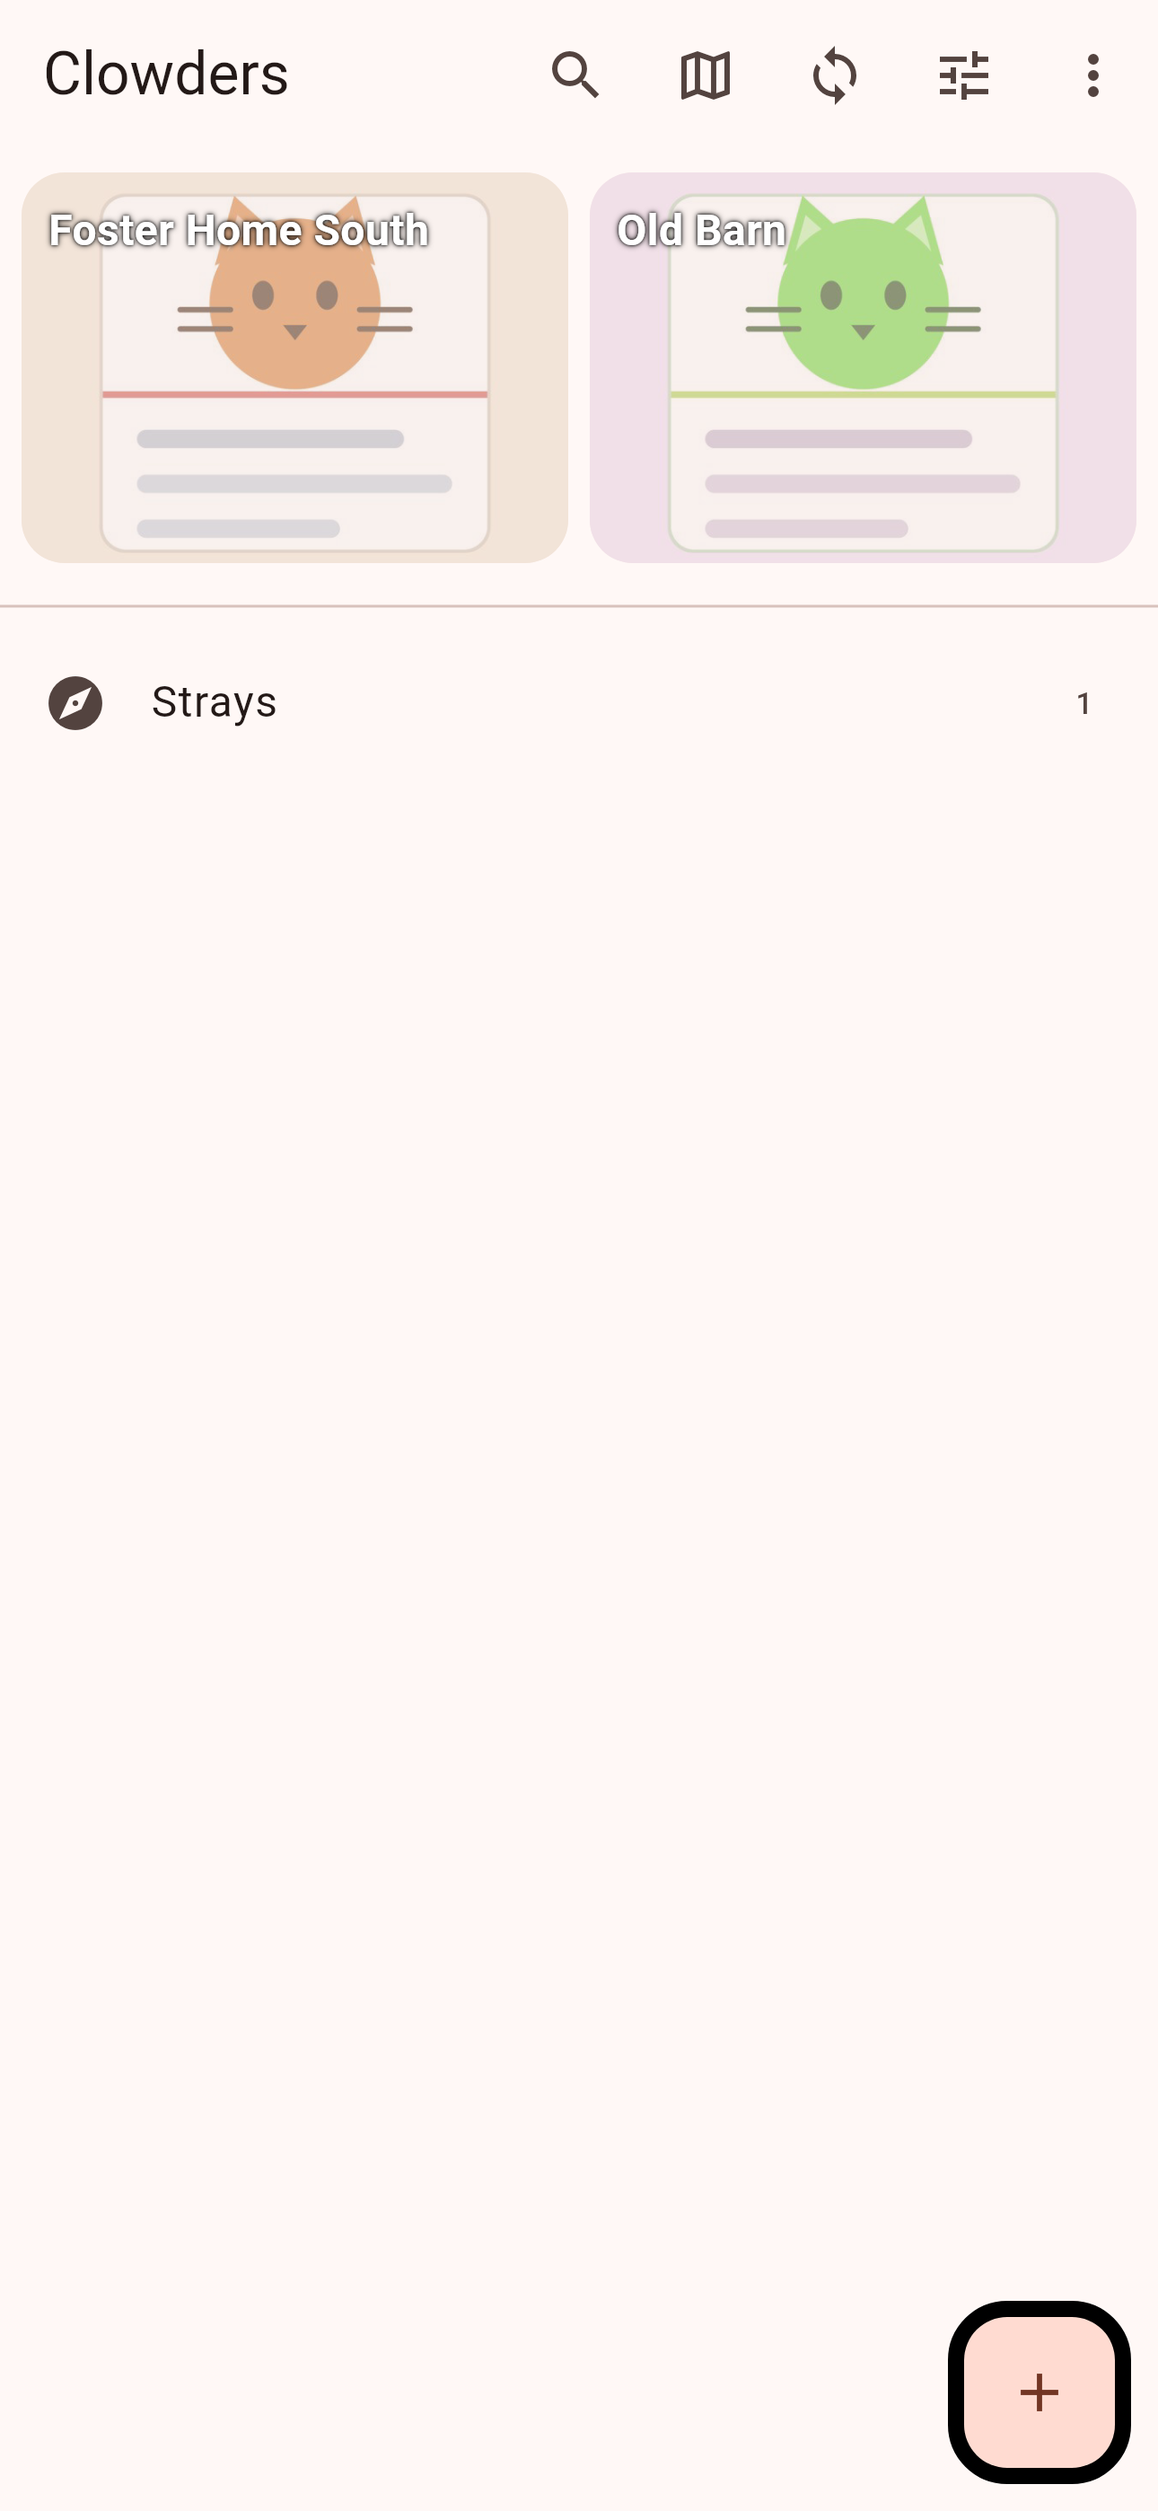
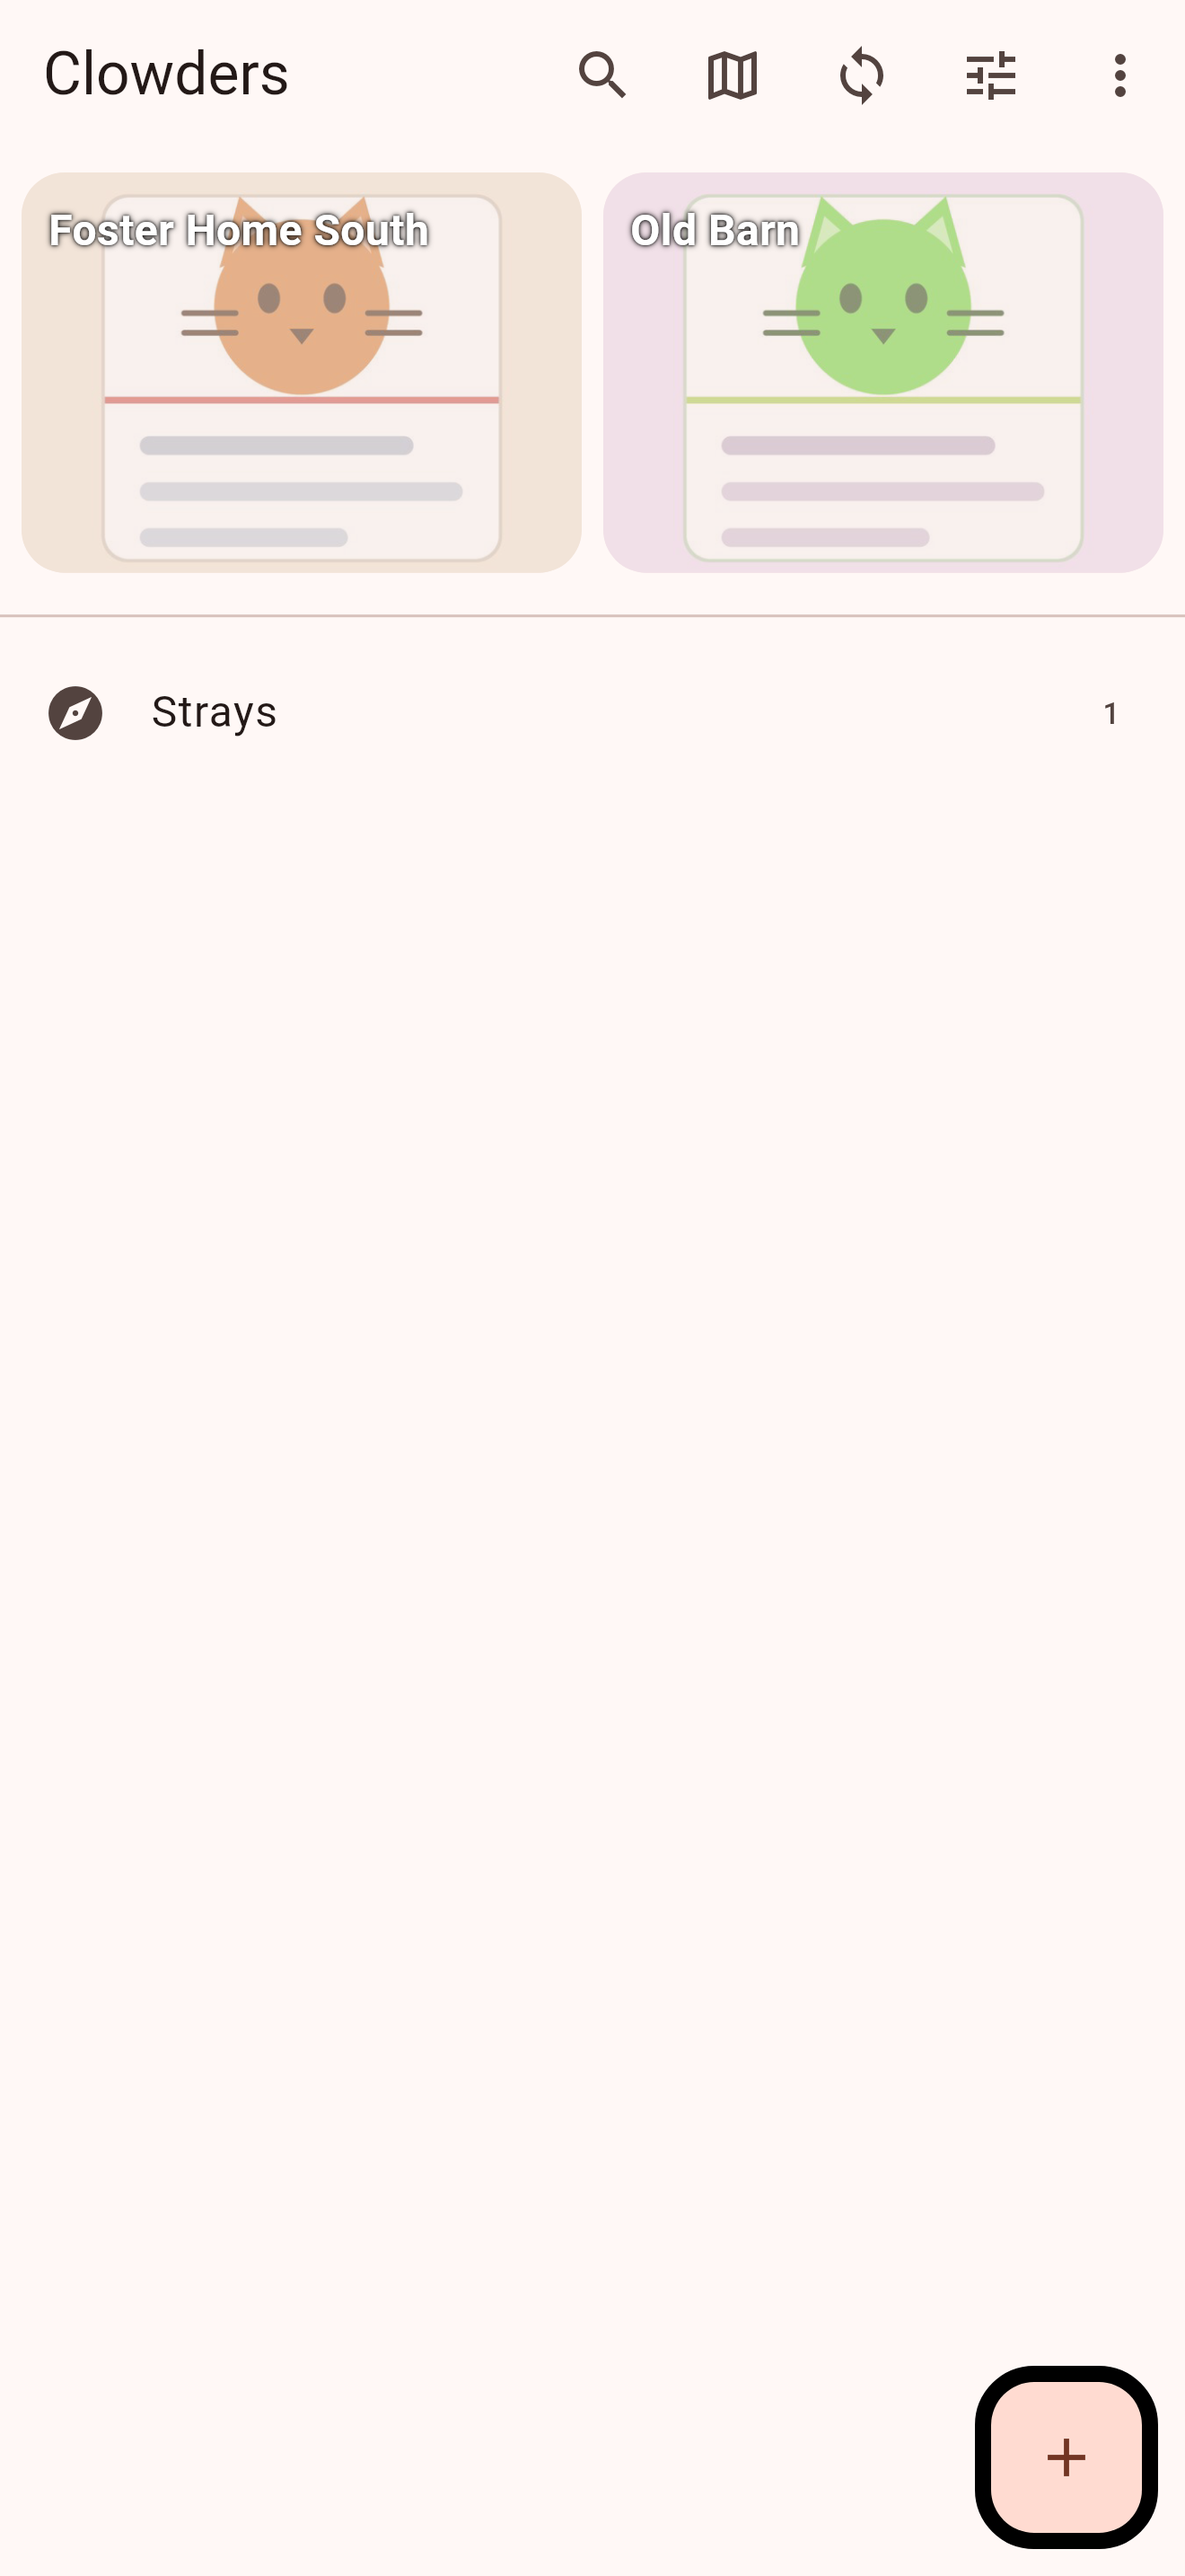
docs: iPhone App Store screenshots at the 6.9-inch size (1320x2868)

diff --git a/test/screenshots/screenshots_test.dart b/test/screenshots/screenshots_test.dart
@@ -173,10 +173,10 @@ void main() {
             store: store, tileProvider: _PastelTileProvider(tileFile)),
         '06-map');
 
-    // Apple App Store sets: 6.7" iPhone (1290×2796 @3x) and 13" iPad
+    // Apple App Store sets: 6.9" iPhone (1320×2868 @3x) and 13" iPad
     // (2064×2752 @2x), into docs/screenshots/appstore/.
     Directory('docs/screenshots/appstore').createSync(recursive: true);
-    const phone = Size(1290, 2796);
+    const phone = Size(1320, 2868);
     const pad = Size(2064, 2752);
     final shots = <String, Widget>{
       '01-home': ClowderListScreen(store: store),
